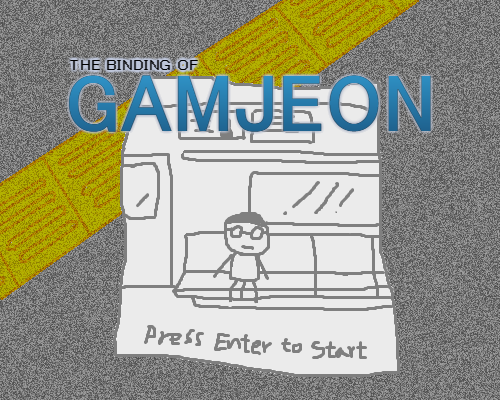
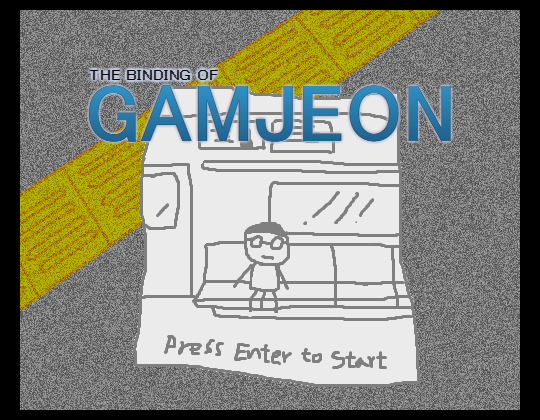
adjust image size and position

diff --git a/src/main/resources/templates/game.html b/src/main/resources/templates/game.html
@@ -9,21 +9,21 @@
 </head>
 <body>
 
-	<img id="info_heart" width="30" height="30" src="img/info/heart.png">
+	<img id="info_heart" width="20" height="20" src="img/info/heart.png">
 	<img id="info_heart_half" width="30" height="30" src="img/info/heart_half.png">
 	<img id="info_coin" width="20" height="20" src="img/info/coin.png">
 	<img id="info_bomb" width="20" height="20" src="img/info/bomb.png">
 	<img id="info_key" width="20" height="20" src="img/info/key.png">
 	<img id="info_inventory" width="105" height="70" src="img/info/inventory.png">
 
-	<img id="room" width="500" height="400" src="img/bg/room/room.png">
-	<img id="floor" width="380" height="280" src="img/bg/room/control_description.png">
+	<img id="room" width="540" height="420" src="img/bg/room/room.png">
+	<img id="floor" width="420" height="300" src="img/bg/room/control_description.png">
 	<img id="phead" width="80" height="80" src="img/character/gamjeon_head_front.png">
 	<img id="pbody" width="80" height="80" src="img/character/gamjeon_body_front.png">
 	<img id="attack" width="20" height="20" src="img/character/weapon/default.png">
 	
-	<canvas id="info" width="500" height="80"></canvas>
-	<canvas id="canvas" width="500" height="400"></canvas>
+	<canvas id="info" width="540" height="80"></canvas>
+	<canvas id="canvas" width="540" height="420"></canvas>
 	
 	<script th:inline="javascript">
 		/*<![CDATA[*/
@@ -47,9 +47,6 @@
 		var drawInterval;
 		
 		var wall = [10, 60, 40, 40]; // top, bottom, left, right
-		var point = [[${pos}]];
-		var playerX = point[0];
-		var playerY = point[1];
 		var attacks = [];
 		
 		var pressed = [false, false, false, false]; // up, down, left, right
@@ -82,6 +79,13 @@
 			[/]
 			
 			playerInfo = {
+				x: [[${pos[0]}]],
+				y: [[${pos[1]}]],
+				moveBox: {
+					x: 0,
+					y: 0,
+					size: 40
+				},
 				coin: [[${playerInfo.coin}]],
 				bomb: [[${playerInfo.bomb}]],
 				key: [[${playerInfo.key}]],
@@ -93,6 +97,10 @@
 					damage: [[${playerInfo.status.damage}]],
 					speed: [[${playerInfo.status.speed}]],
 					range: [[${playerInfo.status.range}]]
+				},
+				setBoxes: function() {
+					this.moveBox.x = this.x + 20;
+					this.moveBox.y = this.y + 40;
 				}
 			};
 			doorSetting();
@@ -180,13 +188,13 @@
 				var attackObj = {
 					mx: mx,
 					my: my,
-					x: playerX + 30,
-					y: playerY + 30,
-					validCount: 0,
+					x: playerInfo.x + 30,
+					y: playerInfo.y + 30,
+					rangeCount: 0,
 					move: function() {
 						this.x += this.mx;
 						this.y += this.my;
-						this.validCount++;
+						this.rangeCount++;
 					},
 					isValid: function() {
 						if(this.x < wall[2] || this.x > cw - wall[3]) {
@@ -195,7 +203,7 @@
 						} else if(this.y < wall[0] || this.y > ch - wall[1]) {
 							console.log("attack removed by wall top or wall bottom");
 							return false;
-						} else if(this.validCount == playerInfo.status.range) {
+						} else if(this.rangeCount == playerInfo.status.range) {
 							console.log("attack removed because of range limit");
 							return false;
 						} else {
@@ -327,37 +335,44 @@
 		}
 		
 		function playerMove() {
-			if(pressed[0] && (playerY > wall[0])) {
-				playerY -= playerInfo.status.speed;
+			if(pressed[0] && (playerInfo.y > wall[0])) {
+				playerInfo.y -= playerInfo.status.speed;
+				playerInfo.setBoxes();
 			}
-			if(pressed[1] && (playerY < ch-(wall[1]+pbody.height))) {
-				playerY += playerInfo.status.speed;
+			if(pressed[1] && (playerInfo.y < ch-(wall[1]+pbody.height))) {
+				playerInfo.y += playerInfo.status.speed;
+				playerInfo.setBoxes();
 			}
-			if(pressed[2] && (playerX > wall[2])) {
-				playerX -= playerInfo.status.speed;
+			if(pressed[2] && (playerInfo.x > wall[2])) {
+				playerInfo.x -= playerInfo.status.speed;
+				playerInfo.setBoxes();
 			}
-			if(pressed[3] && (playerX < cw-(wall[3]+pbody.width))) {
-				playerX += playerInfo.status.speed;
+			if(pressed[3] && (playerInfo.x < cw-(wall[3]+pbody.width))) {
+				playerInfo.x += playerInfo.status.speed;
+				playerInfo.setBoxes();
 			}
 		}
 		
 		function wallCheck() {
 			var doors = roomInfo[roomNo].doors;
 			
-			if(playerX >= 200 && playerX <= 220 && playerY < (ch/2-pbody.height/2) && doors[0] == 2) {
+			var dx = cw/2 - 30;
+			var dy = ch/2 - 30;
+			
+			if(playerInfo.moveBox.x >= dx && playerInfo.moveBox.x <= dx + 20 && playerInfo.moveBox.y < (ch/2-pbody.height/2) && doors[0] == 2) {
 				wall[0] = -10;
 				wall[1] = 60;
-			} else if(playerX >= 200 && playerX <= 220 && doors[1] == 2) {
+			} else if(playerInfo.moveBox.x >= dx && playerInfo.moveBox.x <= dx + 20 && doors[1] == 2) {
 				wall[0] = 10;
 				wall[1] = 40;
 			} else {
 				wall[0] = 10;
 				wall[1] = 60;
 			}
-			if(playerY >= 150 && playerY <= 170 && playerX < (cw/2-pbody.width/2) && doors[2] == 2) {
+			if(playerInfo.moveBox.y >= dy && playerInfo.moveBox.y <= dy + 20 && playerInfo.moveBox.x < (cw/2-pbody.width/2) && doors[2] == 2) {
 				wall[2] = 20;
 				wall[3] = 40;
-			} else if(playerY >= 150 && playerY <= 170 && doors[3] == 2) {
+			} else if(playerInfo.moveBox.y >= dy && playerInfo.moveBox.y <= dy + 20 && doors[3] == 2) {
 				wall[2] = 40;
 				wall[3] = 20;
 			} else {
@@ -378,8 +393,8 @@
 				ctx.fillStyle = '#C3C3C3';
 				ctx.fillRect(60, 60, floor.width, floor.height);
 			}
-			ctx.drawImage(pbody, playerX, playerY);
-			ctx.drawImage(phead, playerX, playerY);
+			ctx.drawImage(pbody, playerInfo.x, playerInfo.y);
+			ctx.drawImage(phead, playerInfo.x, playerInfo.y);
 		}
 		
 		function drawDoor() {
@@ -394,19 +409,19 @@
 				
 				switch(i) {
 				case 0:
-					dx = 220; dy = 0;
+					dx = cw/2 - 30; dy = 0;
 					deg = 0;
 					break;
 				case 1:
-					dx = 220; dy = ch - door[i].height;
+					dx = cw/2 - 30; dy = ch - 60;
 					deg = 180;
 					break;
 				case 2:
-					dx = 0; dy = 170;
+					dx = 0; dy = ch/2 - 30;
 					deg = 270;
 					break;
 				case 3:
-					dx = cw - door[i].width; dy = 170;
+					dx = cw - 60; dy = ch/2 - 30;
 					deg = 90;
 					break;
 				}
@@ -420,13 +435,13 @@
 		}
 		
 		function doorCheck() {
-			if(playerY == -10) {
+			if(playerInfo.y == -10) {
 				moveRoom(0);
-			} else if(playerY == (ch-(pbody.height+40))) {
+			} else if(playerInfo.y == (ch-(pbody.height+40))) {
 				moveRoom(1);
-			} else if(playerX == 20) {
+			} else if(playerInfo.x == 20) {
 				moveRoom(2);
-			} else if(playerX == (cw-(pbody.width+20))) {
+			} else if(playerInfo.x == (cw-(pbody.width+20))) {
 				moveRoom(3);
 			}
 		}
@@ -464,22 +479,22 @@
 			case 0:
 				sliceX = 0; sliceY = 20;
 				rx = 0; ry = -ch;
-				playerX = 210; playerY = 260;
+				playerInfo.x = cw/2 - pbody.width/2; playerInfo.y = ch - (60 + pbody.height);
 				break;
 			case 1:
 				sliceX = 0; sliceY = -20;
 				rx = 0; ry = ch;
-				playerX = 210; playerY = 10;
+				playerInfo.x = cw/2 + pbody.width/2; playerInfo.y = 60;
 				break;
 			case 2:
 				sliceX = 20; sliceY = 0;
 				rx = -cw; ry = 0;
-				playerX = 360; playerY = 160;
+				playerInfo.x = cw - (60 + pbody.width); playerInfo.y = ch/2 - pbody.height/2;
 				break;
 			case 3:
 				sliceX = -20; sliceY = 0;
 				rx = cw; ry = 0;
-				playerX = 40; playerY = 160;
+				playerInfo.x = 60; playerInfo.y = playerInfo.y = ch/2 - pbody.height/2;
 				break;
 			}
 			
@@ -551,35 +566,35 @@
 			}
 			ctx2.fillStyle = "#000000";
 			
-			ctx2.drawImage(coin, 135, 5);
+			ctx2.drawImage(coin, 165, 5);
 			count = playerInfo.coin;
 			if(count<10) {
 				count = "0"+count;
 			}
-			ctx2.fillText("x " + count, 165, 20);
+			ctx2.fillText("x " + count, 195, 20);
 			
-			ctx2.drawImage(bomb, 135, 30);
+			ctx2.drawImage(bomb, 165, 30);
 			count = playerInfo.bomb;
 			if(count<10) {
 				count = "0"+count;
 			}
-			ctx2.fillText("x " + count, 165, 46);
+			ctx2.fillText("x " + count, 195, 46);
 			
-			ctx2.drawImage(key, 135, 55);
+			ctx2.drawImage(key, 165, 55);
 			count = playerInfo.key;
 			if(count<10) {
 				count = "0"+count;
 			}
-			ctx2.fillText("x " + count, 165, 73);
+			ctx2.fillText("x " + count, 195, 73);
 			
-			ctx2.drawImage(inventory, 220, 5);
+			ctx2.drawImage(inventory, 255, 5);
 			
 			while(life>0) {
 				if(life>1) {
-					ctx2.drawImage(heart, 37*i + 330, 6);
+					ctx2.drawImage(heart, 25*i + 380, 30);
 					life -= 2;
 				} else {
-					ctx2.drawImage(heart_half, 37*i + 330, 6);
+					ctx2.drawImage(heart_half, 25*i + 380, 30);
 					life--;
 				}
 				i++;

diff --git a/src/main/resources/static/js/title.js b/src/main/resources/static/js/title.js
@@ -20,7 +20,7 @@ var surprisedFlag = false;
 var playerMoveFlag = false;
 
 var playerX = 246;
-var playerY = 145;
+var playerY = 155;
 var leftX = 77;
 var rightX = 126;
 var lightX = 500;
@@ -70,8 +70,8 @@ function draw() {
 
 function drawStaticImage() {
 	if (!doorMoveFlag) {
-		ctx.drawImage(doorLeft, leftX, 125);
-		ctx.drawImage(doorRight, rightX, 125);
+		ctx.drawImage(doorLeft, leftX, 135);
+		ctx.drawImage(doorRight, rightX, 135);
 	}
 
 	ctx.drawImage(bg, 0, 0);
@@ -79,10 +79,10 @@ function drawStaticImage() {
 	ctx.drawImage(phead, playerX, playerY);
 
 	if (zzzFlag) {
-		ctx.drawImage(zzz, 261, 115);
+		ctx.drawImage(zzz, 261, 125);
 	}
 	if (confusedFlag) {
-		ctx.drawImage(confused, 261, 115);
+		ctx.drawImage(confused, 261, 125);
 	}
 	if (surprisedFlag) {
 		ctx.drawImage(surprised, playerX + 15, playerY - 30);
@@ -100,7 +100,7 @@ function drawTunnelLight() {
 		zzzFlag = true;
 	}
 
-	ctx.drawImage(tunnelLight, lightX, 130);
+	ctx.drawImage(tunnelLight, lightX, 140);
 }
 
 function doorMove() {
@@ -109,8 +109,8 @@ function doorMove() {
 
 	doorChk++;
 
-	ctx.drawImage(doorLeft, leftX, 125);
-	ctx.drawImage(doorRight, rightX, 125);
+	ctx.drawImage(doorLeft, leftX, 135);
+	ctx.drawImage(doorRight, rightX, 135);
 
 	if (doorChk > 7) {
 		doorMoveFlag = false;
@@ -143,7 +143,7 @@ function playerMove() {
 		phead.src = "img/character/gamjeon_head_left.png";
 		pbody.src = "img/character/gamjeon_body_left.png";
 		playerX -= 5;
-	} else if(playerY > 115) {
+	} else if(playerY > 125) {
 		phead.src = "img/character/gamjeon_head_back.png";
 		pbody.src = "img/character/gamjeon_body_back.png";
 		playerY -= 5;

diff --git a/src/main/resources/templates/title.html b/src/main/resources/templates/title.html
@@ -9,7 +9,7 @@
 </head>
 <body>
 	
-	<img id="bg" width="500" height="400" src="img/bg/title.png">
+	<img id="bg" width="540" height="420" src="img/bg/title.png">
 	<img id="skip" width="140" height="50" src="img/bg/skip.png">
 	<img id="doorLeft" width="49" height="88" src="img/sprite/subway_door_left.png">
 	<img id="doorRight" width="49" height="88" src="img/sprite/subway_door_right.png">
@@ -20,7 +20,7 @@
 	<img id="confused" width="50" height="50" src="img/character/emotion/confused.png">
 	<img id="surprised" width="50" height="50" src="img/character/emotion/surprised.png">
 	
-	<canvas id="canvas" width="500" height="400"></canvas>
+	<canvas id="canvas" width="540" height="420"></canvas>
 	
 	<script type="text/javascript" src="js/title.js"></script>
 
